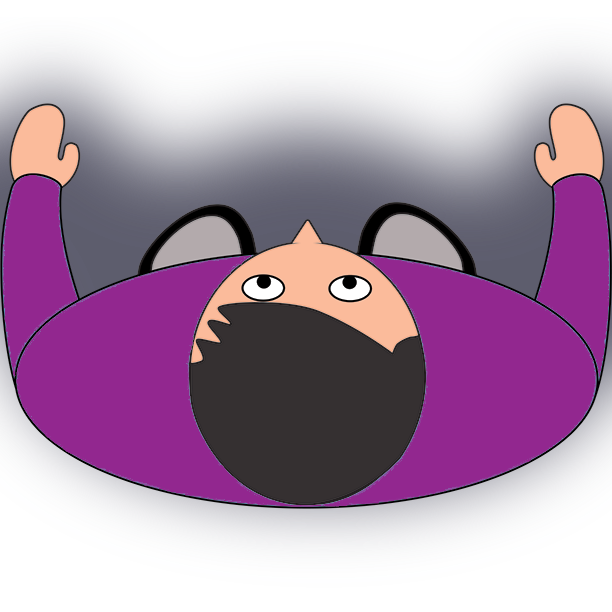
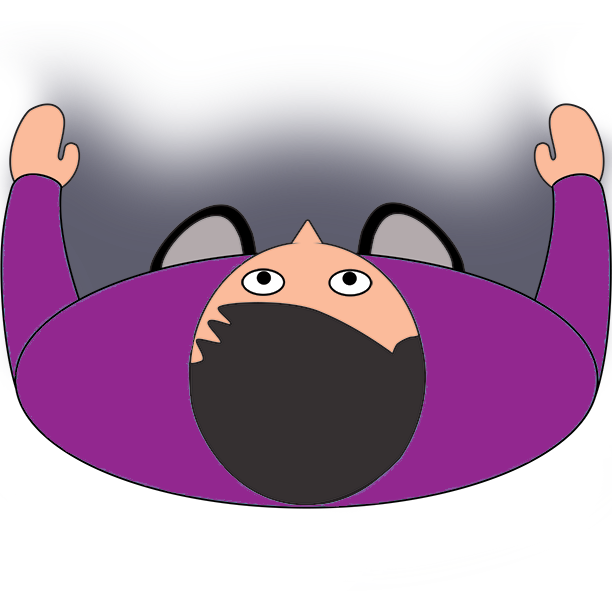
added new forward eyes stimuli, erased shadow overlap, tinkered with angle tilt

diff --git a/src/js/core/placement.js b/src/js/core/placement.js
@@ -5,6 +5,7 @@ var angle_offset = 90 //inital offset because images already face up
 
 function calcPlacements(centroids, SPIN_ANGLE, trial_type, trial_reflection) {
     //left triangle
+    
     var [a, b] = centroids[0];
 
     const p1 = {};
@@ -16,11 +17,11 @@ function calcPlacements(centroids, SPIN_ANGLE, trial_type, trial_reflection) {
     p1.Adj = a - p1.x;
     
     if(trial_type.includes("Pairs")) {
-        if(SPIN_ANGLE == 0) {
+        if(SPIN_ANGLE == ((Math.PI/18))) {
             p1.r = ((Math.atan2(p1.Opp, p1.Adj) * (180/Math.PI)) + 35);
         } else if(SPIN_ANGLE == Math.PI/2) {
             p1.r = ((Math.atan2(p1.Opp, p1.Adj) * (180/Math.PI)) + randomIntFromRange(-25,25) + angle_offset);
-        } else if (SPIN_ANGLE == Math.PI) {
+        } else if (SPIN_ANGLE == ((Math.PI/18 + Math.PI))) {
             p1.r = ((Math.atan2(p1.Opp, p1.Adj) * (180/Math.PI)) + 135);
         }
     } else {
@@ -39,11 +40,11 @@ function calcPlacements(centroids, SPIN_ANGLE, trial_type, trial_reflection) {
     p2.Adj = a - p2.x;
 
     if(trial_type.includes("Pairs")) {
-        if(SPIN_ANGLE == 0) {
+        if(SPIN_ANGLE == ((Math.PI/18))) {
             p2.r = ((Math.atan2(p2.Opp, p2.Adj) * (180/Math.PI)) + 165.5);
         } else if (SPIN_ANGLE == Math.PI/2) {
             p2.r = ((Math.atan2(p2.Opp, p2.Adj) * (180/Math.PI)) + 0);
-        } else if(SPIN_ANGLE == Math.PI) {
+        } else if(SPIN_ANGLE == ((Math.PI/18 + Math.PI))) {
             p2.r = ((Math.atan2(p2.Opp, p2.Adj) * (180/Math.PI)) + 35);
         }
     } else {
@@ -60,11 +61,11 @@ function calcPlacements(centroids, SPIN_ANGLE, trial_type, trial_reflection) {
     p3.Adj = a - p3.x;
 
     if(trial_type.includes("Pairs")) {
-        if(SPIN_ANGLE == 0) {
+        if(SPIN_ANGLE == ((Math.PI/18))) {
             p3.r = ((Math.atan2(p3.Opp, p3.Adj) * (180/Math.PI)) + 17.5);
         } else if (SPIN_ANGLE == Math.PI/2) {
             p3.r = ((Math.atan2(p3.Opp, p3.Adj) * (180/Math.PI)) + randomIntFromRange(-25,25) + angle_offset);
-        } else if(SPIN_ANGLE == Math.PI) {
+        } else if(SPIN_ANGLE == ((Math.PI/18 + Math.PI))) {
             p3.r = ((Math.atan2(p3.Opp, p3.Adj) * (180/Math.PI)) + 135);
         }
     } else {
@@ -86,11 +87,11 @@ function calcPlacements(centroids, SPIN_ANGLE, trial_type, trial_reflection) {
     p4.Adj = c - p4.x;
     
     if(trial_type.includes("Pairs")) {
-        if(SPIN_ANGLE == 0) {
+        if(SPIN_ANGLE == ((Math.PI/18))) {
             p4.r = ((Math.atan2(p4.Opp, p4.Adj) * (180/Math.PI)) + 125);
         } else if (SPIN_ANGLE == Math.PI/2) {
             p4.r = ((Math.atan2(p4.Opp, p4.Adj) * (180/Math.PI)) + randomIntFromRange(-25,25) + angle_offset);
-        } else if(SPIN_ANGLE == Math.PI) {
+        } else if(SPIN_ANGLE == ((Math.PI/18 + Math.PI))) {
             p4.r = ((Math.atan2(p4.Opp, p4.Adj) * (180/Math.PI)) + 30);
         }
     } else {
@@ -107,11 +108,11 @@ function calcPlacements(centroids, SPIN_ANGLE, trial_type, trial_reflection) {
 
 
     if(trial_type.includes("Pairs")) {
-        if(SPIN_ANGLE == 0) {
+        if(SPIN_ANGLE == ((Math.PI/18))) {
             p5.r = ((Math.atan2(p5.Opp, p5.Adj) * (180/Math.PI)) + 30);
         } else if (SPIN_ANGLE == Math.PI/2) {
             p5.r = ((Math.atan2(p5.Opp, p5.Adj) * (180/Math.PI)) + randomIntFromRange(-25,25) + angle_offset);
-        } else if(SPIN_ANGLE == Math.PI) {
+        } else if(SPIN_ANGLE == ((Math.PI/18 + Math.PI))) {
             p5.r = ((Math.atan2(p5.Opp, p5.Adj) * (180/Math.PI)) + 137.5);
         }
     } else {
@@ -129,11 +130,11 @@ function calcPlacements(centroids, SPIN_ANGLE, trial_type, trial_reflection) {
     p6.Adj = c - p6.x;
 
     if(trial_type.includes("Pairs")) {
-        if(SPIN_ANGLE == 0) {
+        if(SPIN_ANGLE == ((Math.PI/18))) {
             p6.r = ((Math.atan2(p6.Opp, p6.Adj) * (180/Math.PI)) + 137.5);
         } else if (SPIN_ANGLE == Math.PI/2) {
             p6.r = ((Math.atan2(p6.Opp, p6.Adj) * (180/Math.PI)) + randomIntFromRange(-25,25) + angle_offset);
-        } else if(SPIN_ANGLE == Math.PI) {
+        } else if(SPIN_ANGLE == ((Math.PI/18 + Math.PI))) {
             p6.r = ((Math.atan2(p6.Opp, p6.Adj) * (180/Math.PI)) + 30);
         }
     } else {

diff --git a/src/js/core/params.js b/src/js/core/params.js
@@ -6,8 +6,8 @@ Defining Parameter Variables
 
 var stimFolder = 'src/assets/stimuli/people/'
 
-var runIntro = true;
-var runInstr = true;
+var runIntro = false;
+var runInstr = false;
 var runExpt = true;
 var runClose = true;
 var runPreload = true;
@@ -23,7 +23,7 @@ var U_RIGHT_CENTROID = [425, 200];
 var L_LEFT_CENTROID = [175, 400];
 var L_RIGHT_CENTROID = [425, 400];
 var CENTROIDS = [U_LEFT_CENTROID, U_RIGHT_CENTROID, L_LEFT_CENTROID, L_RIGHT_CENTROID];
-var RADIUS = 135; 
+var RADIUS = 145; 
 var allPeopleColors = ["red", "orange1", "orange2", "green1", "green3", "blue2", "blue3", "blue4", "blue5", "purple", "magenta", "pink"];
 // Variables for Participant Information
 var estTotalRunTime = 7;

diff --git a/src/js/core/timeline.js b/src/js/core/timeline.js
@@ -229,7 +229,7 @@ EXPERIMENT SECTION (*sec_expt)
 var poss_stripe_angles = [40, 60];
 var poss_identical = [true, false];
 var poss_difficulty = [20];
-var poss_rotations = [0, Math.PI];
+var poss_rotations = [(Math.PI/18), (Math.PI/18 + Math.PI)];
 var poss_groups = ["allStanding","standingPairs"];
 
 var factors = {

diff --git a/src/js/core/trial.js b/src/js/core/trial.js
@@ -112,7 +112,7 @@ function runSingleTrial(
 
     
     all_points = calcPlacements(CENTROIDS, rotation, group, trialReflection);
-
+    
     //"allStanding","standingPairs"
 
 
